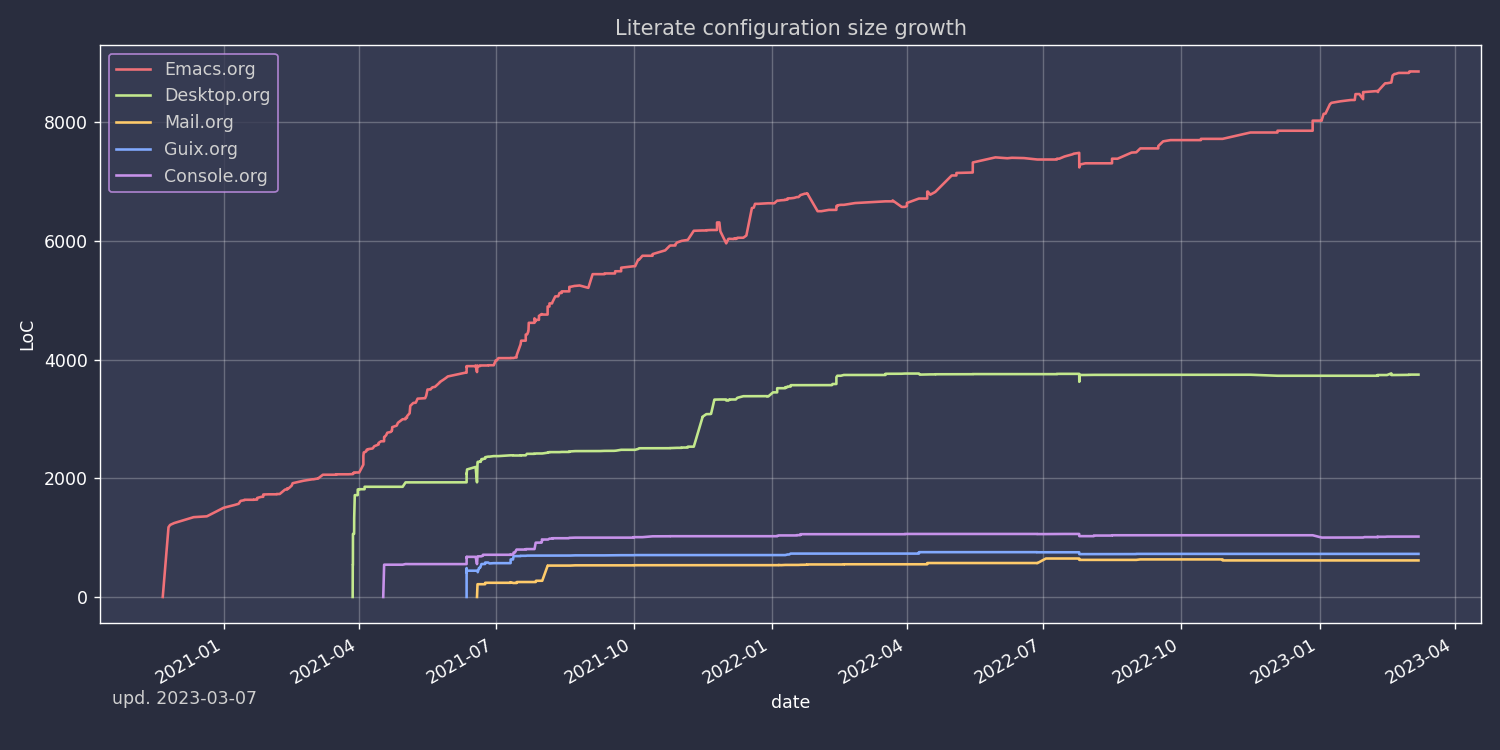
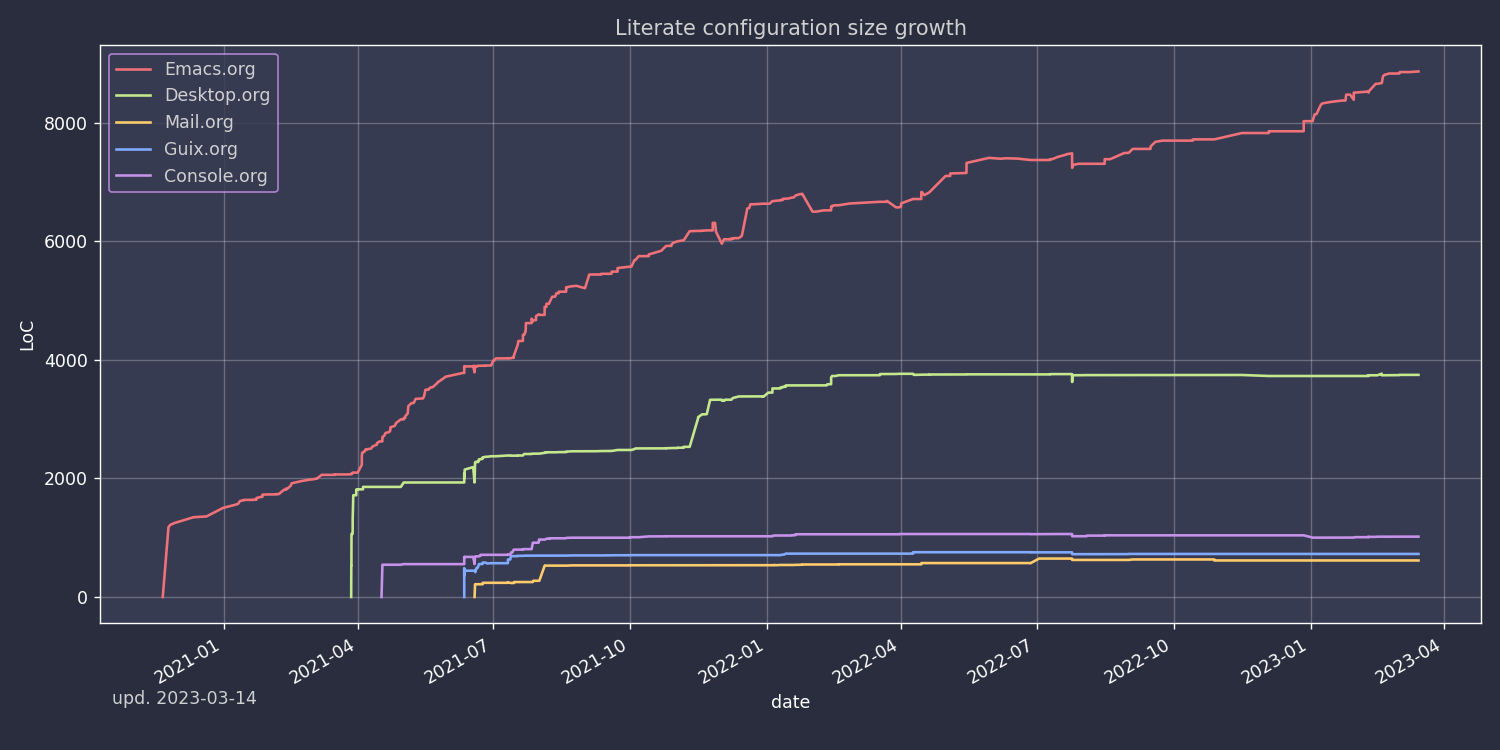
deploy: 24780499921e9ffc25c76b94e0a16963e89c943a

diff --git a/configs/console/index.html b/configs/console/index.html
@@ -215,11 +215,11 @@
 </span></span><span style="display:flex;"><span>
 </span></span><span style="display:flex;"><span><span style="color:#666">[[</span> -f ~/.bashrc <span style="color:#666">]]</span> <span style="color:#666">&amp;&amp;</span> . ~/.bashrc
 </span></span></code></pre></div><h3 id="dot-bashrc"><code>.bashrc</code></h3>
-<p>My <code>.bashrc</code>, which has pieces from the default ones in Guix &amp; Manjaro, as well some mine settings.</p>
+<p>My <code>.bashrc</code>, which has pieces from the default one in Guix &amp; Manjaro, as well some mine settings.</p>
 <h4 id="startup-and-environment">Startup &amp; environment</h4>
 <p>Export &lsquo;SHELL&rsquo; to child processes.  Programs such as &lsquo;screen&rsquo; honor it and otherwise use /bin/sh.</p>
 <div class="highlight"><pre tabindex="0" style=";-moz-tab-size:4;-o-tab-size:4;tab-size:4;"><code class="language-bash" data-lang="bash"><span style="display:flex;"><span><span style="color:#008000">export</span> SHELL
-</span></span></code></pre></div><p>We are being invoked from a non-interactive shell.  If this is an SSH session (as in &ldquo;ssh host command&rdquo;), source /etc/profile so we get PATH and other essential variables.</p>
+</span></span></code></pre></div><p>We are being invoked from a non-interactive shell.  If this is an SSH session (as in &ldquo;ssh host command&rdquo;), source /etc/profile, so we get PATH and other essential variables.</p>
 <div class="highlight"><pre tabindex="0" style=";-moz-tab-size:4;-o-tab-size:4;tab-size:4;"><code class="language-bash" data-lang="bash"><span style="display:flex;"><span><span style="color:#008000;font-weight:bold">if</span> <span style="color:#666">[[</span> <span style="color:#19177c">$-</span> !<span style="color:#666">=</span> *i* <span style="color:#666">]]</span>
 </span></span><span style="display:flex;"><span><span style="color:#008000;font-weight:bold">then</span>
 </span></span><span style="display:flex;"><span>    <span style="color:#666">[[</span> -n <span style="color:#ba2121">&#34;</span><span style="color:#19177c">$SSH_CLIENT</span><span style="color:#ba2121">&#34;</span> <span style="color:#666">&amp;&amp;</span> -f <span style="color:#ba2121">&#34;/etc/bashrc&#34;</span> <span style="color:#666">]]</span> <span style="color:#666">&amp;&amp;</span> <span style="color:#008000">source</span> /etc/profile
@@ -437,7 +437,7 @@
 </span></span><span style="display:flex;"><span>    <span style="color:#00f">conda</span> activate <span style="color:#19177c">$EMACS_CONDA_ENV</span>
 </span></span><span style="display:flex;"><span><span style="color:#008000;font-weight:bold">end</span>
 </span></span></code></pre></div><h3 id="colors-1">Colors</h3>
-<p>Fish seems to have hardcoded colorcodes in some color settings. I set these to base16 colors so they would match Xresources.</p>
+<p>Fish seems to have hardcoded colorcodes in some color settings. I set these to base16 colors, so they would match Xresources.</p>
 <div class="highlight"><pre tabindex="0" style=";-moz-tab-size:4;-o-tab-size:4;tab-size:4;"><code class="language-fish" data-lang="fish"><span style="display:flex;"><span><span style="color:#008000;font-weight:bold">set</span> <span style="color:#19177c">fish_color_command</span> cyan
 </span></span><span style="display:flex;"><span><span style="color:#008000;font-weight:bold">set</span> <span style="color:#19177c">fish_color_comment</span> green
 </span></span><span style="display:flex;"><span><span style="color:#008000;font-weight:bold">set</span> <span style="color:#19177c">fish_color_end</span> white
@@ -588,7 +588,7 @@
 <p><a href="https://github.com/tmux/tmux">tmux</a> is my terminal multiplexer of choice.</p>
 <p>It provides pretty sane defaults, so the config is not too large. I rebind the prefix to <code>C-a</code> though.</p>
 <h3 id="term-settings">Term settings</h3>
-<p>I have no idea how and why these two work.</p>
+<p>I have no idea how and why these statements work.</p>
 <div class="highlight"><pre tabindex="0" style=";-moz-tab-size:4;-o-tab-size:4;tab-size:4;"><code class="language-vim" data-lang="vim"><span style="display:flex;"><span>set -g default-terminal <span style="color:#ba2121">&#34;screen-256color&#34;</span><span style="">
 </span></span></span><span style="display:flex;"><span><span style=""></span>set -ga terminal-overrides <span style="color:#ba2121">&#34;,*256col*:Tc&#34;</span><span style="">
 </span></span></span></code></pre></div><p>History limit.</p>
@@ -630,7 +630,7 @@
 </tr>
 </tbody>
 </table>
-<p>Make tmux copying copy to clipboard as well</p>
+<p>Make tmux copy to clipboard as well</p>
 <div class="highlight"><pre tabindex="0" style=";-moz-tab-size:4;-o-tab-size:4;tab-size:4;"><code class="language-vim" data-lang="vim"><span style="display:flex;"><span>bind-key -T copy-mode-vi MouseDragEnd1Pane send-keys -X copy-pipe-and-cancel <span style="color:#ba2121">&#34;xclip -selection clipboard -i&#34;</span><span style="">
 </span></span></span><span style="display:flex;"><span><span style=""></span>bind-key -T copy-mode-vi y send-keys -X copy-pipe-and-cancel <span style="color:#ba2121">&#34;xclip -selection clipboard -i&#34;</span><span style="">
 </span></span></span></code></pre></div><h3 id="ui">UI</h3>
@@ -671,7 +671,7 @@
 </tr>
 </tbody>
 </table>
-<p><a href="https://github.com/alacritty/alacritty">Alacritty</a> is a GPU-accelerated terminal emulator. I haven&rsquo;t found it to be an inch faster than st, but configuration the in yml format is way more convinient than patches.</p>
+<p><a href="https://github.com/alacritty/alacritty">Alacritty</a> is a GPU-accelerated terminal emulator. I haven&rsquo;t found it to be an inch faster than st, but configuration the in yml format is way more convenient than patches.</p>
 <p>Once again, we have an application which doesn&rsquo;t support reading Xresources, so here goes noweb.</p>
 <p><a id="code-snippet--get-xrdb"></a></p>
 <div class="highlight"><pre tabindex="0" style=";-moz-tab-size:4;-o-tab-size:4;tab-size:4;"><code class="language-bash" data-lang="bash"><span style="display:flex;"><span>xrdb -query all | grep <span style="color:#ba2121">&#34;</span><span style="color:#19177c">$color</span><span style="color:#ba2121">:&#34;</span> | cut -f <span style="color:#666">2</span>
@@ -843,9 +843,9 @@
 <h3 id="ripgrep-config">ripgrep config</h3>
 <p>Occasionally I can&rsquo;t exclude certain files from ripgrep via the VCS settings, so here is a simple config to ignore certain files globally.</p>
 <div class="highlight"><pre tabindex="0" style=";-moz-tab-size:4;-o-tab-size:4;tab-size:4;"><code class="language-text" data-lang="text"><span style="display:flex;"><span>--ignore-file=/home/pavel/.config/ripgrep/ripgrepignore
-</span></span></code></pre></div><p>The corresponding ignore file:</p>
+</span></span></code></pre></div><p>The ignore file:</p>
 <div class="highlight"><pre tabindex="0" style=";-moz-tab-size:4;-o-tab-size:4;tab-size:4;"><code class="language-text" data-lang="text"><span style="display:flex;"><span>*.ts.snap
-</span></span></code></pre></div><p>By default ripgrep doesn&rsquo;t read any configs, so it is necessary to set the <code>RIPGREP_CONFIG_PATH</code> variable in the <a href="#environment-1">.profile.</a></p>
+</span></span></code></pre></div><p>By default, ripgrep doesn&rsquo;t read any configs, so it is necessary to set the <code>RIPGREP_CONFIG_PATH</code> variable in the <a href="#environment-1">.profile.</a></p>
 <h2 id="misc-scripts">Misc scripts</h2>
 <h3 id="nt-exec-command-with-a-finished-notification"><code>nt</code> - exec command with a finished notification</h3>
 <p>Usage:</p>
@@ -886,8 +886,8 @@
 <li>If there is a merge conflict, notify</li>
 <li>If there are changed files in the last <code>TIMEOUT_MIN</code> minutes, commit</li>
 <li>Fetch</li>
-<li>If there are were changes in the last <code>TTMEOUT_MIN</code>, merge (usually the merge has to be fast-forward)</li>
-<li>If fetch was successful &amp; merge was successful or delayed because of changes in the last <code>TIMEOUT_MIN</code>, push</li>
+<li>If there are were changes in the last <code>TTMEOUT_MIN</code>, merge (usually the merge has to be fast-forwarded)</li>
+<li>If the fetch was successful &amp; the merge was either successful or delayed because of changes in the last <code>TIMEOUT_MIN</code>, push</li>
 <li>Send a notification about the events above</li>
 <li>Send a separate notification if there is a merge conflict</li>
 </ul>

diff --git a/configs/emacs/index.html b/configs/emacs/index.html
@@ -83,10 +83,10 @@
 <p>At the moment of this writing, this &ldquo;almost anything&rdquo; includes:</p>
 <ul>
 <li><strong>Writing code</strong>. With LSP &amp; Co Emacs is as good as many IDEs, and is certainly on par with editors like VS Code.<br />
-Emacs is also particularly good at writing Lisp code, e.g. Clojure, Common Lisp, and, of course, Emacs Lisp.</li>
+Emacs is also particularly great at writing Lisp code, e.g. Clojure, Common Lisp, and, of course, Emacs Lisp.</li>
 <li><strong>Literate programming</strong> with Org Mode. That includes:
 <ul>
-<li>Configuring the entirety of my software (that can be configured with text files).</li>
+<li>Configuring the entirety of my software, that can be configured with text files.</li>
 <li>Interactive programming like one provided by Jupyter Notebook.</li>
 </ul>
 </li>
@@ -97,11 +97,11 @@ Emacs is also particularly good at writing Lisp code, e.g. Clojure, Common Lisp,
 <li><strong>Task management</strong>, with Org Mode.</li>
 <li><strong>Managing passwords</strong>, with pass.</li>
 <li><strong>IRC</strong>, with ERC.</li>
-<li><strong>Formatting documents</strong>, also with Org Mode. When the document is too complex, I prefer to write plain LaTeX, but I&rsquo;ve come to the conclusion that in most cases Org Mode covers my needs there.</li>
-<li><strong>X Window management</strong>, with EXWM. So I could say I literally live in Emacs.</li>
+<li><strong>Formatting documents</strong>, also with Org Mode. I&rsquo;ve written my Master&rsquo;s Thesis in Org Mode.</li>
+<li><strong>X Window management</strong>, with EXWM. I literally live in Emacs.</li>
 <li>&hellip;</li>
 </ul>
-<p>As I have hinted above, this file is a piece of literate configuration, where the actual code is interweaved with English-language commentary. One could argue that the commentary, and not the code, is the primary entity of the file.</p>
+<p>As I have hinted above, this file is a piece of literate configuration, where the actual code is interweaved with (occasionally semi-broken) English-language commentary. One could argue that the commentary, and not the code, is the primary citizen of the file.</p>
 <p>But at the same time, the configuration is personal, so the primary benefactor of the literate structure is me. The commentary is primarily meant to capture my state of mind at the moment of writing the code, which is immensely helpful for maintaining the code in the future. So the quality and quantity of the commentary are&hellip; varying.</p>
 <p>Occasionally I save some promising experimentations from scratch buffers without much comment. Or I may not have enough time to describe things in substantial detail. Or, as it is at the moment when I&rsquo;m writing this, I have the time to write down whatever I consider necessary. Plus I usually incorporate my blog posts back into the config.</p>
 <p>Of course, human minds share many similarities, so if you are an avid Emacs user, you have a chance to extract something of value from this document.</p>
@@ -1636,7 +1636,7 @@ Emacs is also particularly good at writing Lisp code, e.g. Clojure, Common Lisp,
 <h2 id="programming">Programming</h2>
 <h3 id="general-setup">General setup</h3>
 <h4 id="treemacs">Treemacs</h4>
-<p><a href="https://github.com/Alexander-Miller/treemacs">Treemacs</a> is a quite large &amp; powerful package, but as of now I&rsquo;ve replaced it with dired. I still have a small configuration because lsp-mode and dap-mode depend on it.</p>
+<p><a href="https://github.com/Alexander-Miller/treemacs">Treemacs</a> is a rather large &amp; powerful package, but as of now I&rsquo;ve replaced it with dired. I still have a small configuration because lsp-mode and dap-mode depend on it.</p>
 <div class="highlight"><pre tabindex="0" style=";-moz-tab-size:4;-o-tab-size:4;tab-size:4;"><code class="language-emacs-lisp" data-lang="emacs-lisp"><span style="display:flex;"><span>(<span style="color:#008000">use-package</span> <span style="color:#19177c">treemacs</span>
 </span></span><span style="display:flex;"><span>  <span style="color:#008000">:straight</span> <span style="color:#800">t</span>
 </span></span><span style="display:flex;"><span>  <span style="color:#008000">:defer</span> <span style="color:#800">t</span>
@@ -1789,7 +1789,7 @@ Emacs is also particularly good at writing Lisp code, e.g. Clojure, Common Lisp,
 </span></span><span style="display:flex;"><span>  <span style="color:#008000">:after</span> <span style="color:#19177c">tree-sitter</span>)
 </span></span></code></pre></div><h4 id="dap">DAP</h4>
 <p>An Emacs client for Debugger Adapter Protocol.</p>
-<p>As of the time of this writing, I mostly debug TypeScript, so the main competitor is Chrome Inspector for node.js.</p>
+<p>Okay, so, I tried to use it many times&hellip; Chrome DevTools and ipdb / pudb are just better for me. Maybe I&rsquo;ll check out RealGUD instead&hellip; Will see.</p>
 <p>References:</p>
 <ul>
 <li><a href="https://emacs-lsp.github.io/dap-mode/">dap-mode homepage</a></li>
@@ -3640,6 +3640,14 @@ Emacs is also particularly good at writing Lisp code, e.g. Clojure, Common Lisp,
 </span></span><span style="display:flex;"><span>   <span style="color:#ba2121">&#34;C-c t a&#34;</span> <span style="color:#00f">#&#39;</span><span style="color:#19177c">org-transclusion-add</span>
 </span></span><span style="display:flex;"><span>   <span style="color:#ba2121">&#34;C-c t A&#34;</span> <span style="color:#00f">#&#39;</span><span style="color:#19177c">org-transclusion-add-all</span>
 </span></span><span style="display:flex;"><span>   <span style="color:#ba2121">&#34;C-c t t&#34;</span> <span style="color:#00f">#&#39;</span><span style="color:#19177c">org-transclusion-mode</span>))
+</span></span></code></pre></div><h4 id="drawing">Drawing</h4>
+<p>This package is unbelievably good. I would have never thought it&rsquo;s even possible to have this in Emacs.</p>
+<div class="highlight"><pre tabindex="0" style=";-moz-tab-size:4;-o-tab-size:4;tab-size:4;"><code class="language-emacs-lisp" data-lang="emacs-lisp"><span style="display:flex;"><span>(<span style="color:#008000">use-package</span> <span style="color:#19177c">edraw-org</span>
+</span></span><span style="display:flex;"><span>  <span style="color:#008000">:straight</span> (<span style="color:#008000">:host</span> <span style="color:#19177c">github</span> <span style="color:#008000">:repo</span> <span style="color:#ba2121">&#34;misohena/el-easydraw&#34;</span>)
+</span></span><span style="display:flex;"><span>  <span style="color:#008000">:if</span> (<span style="color:#008000">and</span> (<span style="color:#19177c">not</span> <span style="color:#19177c">my/is-termux</span>) (<span style="color:#19177c">not</span> <span style="color:#19177c">my/remote-server</span>))
+</span></span><span style="display:flex;"><span>  <span style="color:#008000">:after</span> (<span style="color:#19177c">org</span>)
+</span></span><span style="display:flex;"><span>  <span style="color:#008000">:config</span>
+</span></span><span style="display:flex;"><span>  (<span style="color:#19177c">edraw-org-setup-default</span>))
 </span></span></code></pre></div><h4 id="managing-tables">Managing tables</h4>
 <p>I use Org to manage some small tables which I want to process further. So here is a function that saves each table to a CSV file.</p>
 <div class="highlight"><pre tabindex="0" style=";-moz-tab-size:4;-o-tab-size:4;tab-size:4;"><code class="language-emacs-lisp" data-lang="emacs-lisp"><span style="display:flex;"><span>(<span style="color:#008000">defun</span> <span style="color:#19177c">my/export-org-tables-to-csv</span> ()
@@ -7944,6 +7952,7 @@ I&rsquo;ve seen a couple of cases where people would swap their username and ema
             <li><a href="#toc">TOC</a></li>
             <li><a href="#screenshots">Screenshots</a></li>
             <li><a href="#transclusion">Transclusion</a></li>
+            <li><a href="#drawing">Drawing</a></li>
             <li><a href="#managing-tables">Managing tables</a></li>
           </ul>
         </li>

diff --git a/configs/readme/index.html b/configs/readme/index.html
@@ -76,7 +76,7 @@
 </figure>
 
 <p>These are my GNU/Linux configuration files. <a href="https://github.com/SqrtMinusOne/dotfiles">View at GitHub</a>.</p>
-<p>I use the <a href="https://leanpub.com/lit-config/read">literate configuration</a> strategy via Emacs&rsquo; <a href="https://orgmode.org/">Org Mode</a> wherever possible. It has its pros and cons, but I find it pretty nice to keep the configs interweaved with comments in a handful of files</p>
+<p>I use the <a href="https://leanpub.com/lit-config/read">literate configuration</a> strategy via Emacs&rsquo; <a href="https://orgmode.org/">Org Mode</a> wherever possible. It has its pros and cons, but I find it pretty nice to keep the configs interweaved with comments in a handful of files.</p>
 <p>The files themselves are managed and deployed via <a href="https://yadm.io/">yadm</a>, although I use Org Mode for things like config templating.</p>
 <p>My current GNU/Linux distribution is <a href="https://guix.gnu.org/">GNU Guix</a>. I like Guix because, among other things, it allows <a href="https://guix.gnu.org/cookbook/en/html_node/Advanced-package-management.html#Advanced-package-management">to declare the required software</a> in configuration files, so I can have the same set of programs across multiple machines (look for tables with &ldquo;Guix dependency&rdquo; in the header).</p>
 <p>The central program to all of that is, of course, <a href="https://www.gnu.org/software/emacs/">GNU Emacs</a>. At the time of this writing, it takes ~50% of my screen time and has the largest share of configuration here.</p>
@@ -124,16 +124,7 @@
 </ul>
 </li>
 </ul>
-<p>Posts about my configuration:</p>
-<ul>
-<li><a href="https://sqrtminusone.xyz/posts/2022-05-09-pdf/">Extending elfeed with PDF viewer and subtitles fetcher</a></li>
-<li><a href="https://sqrtminusone.xyz/posts/2022-02-12-literate/">A few cases of literate configuration</a></li>
-<li><a href="https://sqrtminusone.xyz/posts/2022-01-03-exwm/">Using EXWM and perspective.el on a multi-monitor setup</a></li>
-<li><a href="https://sqrtminusone.xyz/posts/2021-10-04-emacs-i3/">Getting a consistent set of keybindings between i3 and Emacs</a></li>
-<li><a href="https://sqrtminusone.xyz/posts/2021-09-07-emms/">My EMMS and elfeed setup</a></li>
-<li><a href="https://sqrtminusone.xyz/posts/2021-05-01-org-python/">Replacing Jupyter Notebook with Org Mode</a></li>
-<li><a href="https://sqrtminusone.xyz/posts/2021-02-27-gmail/">Multiple Gmail accounts &amp; labels with Emacs</a></li>
-</ul>
+<p>See also <a href="https://sqrtminusone.xyz/posts/">my blog posts</a>.</p>
 <h2 id="some-statistics">Some statistics</h2>
 <figure><img src="https://sqrtminusone.xyz/stats/all.png"/>
 </figure>

diff --git a/index.html b/index.html
@@ -1,6 +1,6 @@
 <!DOCTYPE html>
 <html lang=""><head>
-	<meta name="generator" content="Hugo 0.111.2">
+	<meta name="generator" content="Hugo 0.111.3">
     <meta charset="utf-8">
     <meta name="viewport" content="width=device-width, initial-scale=1, shrink-to-fit=no">
 
